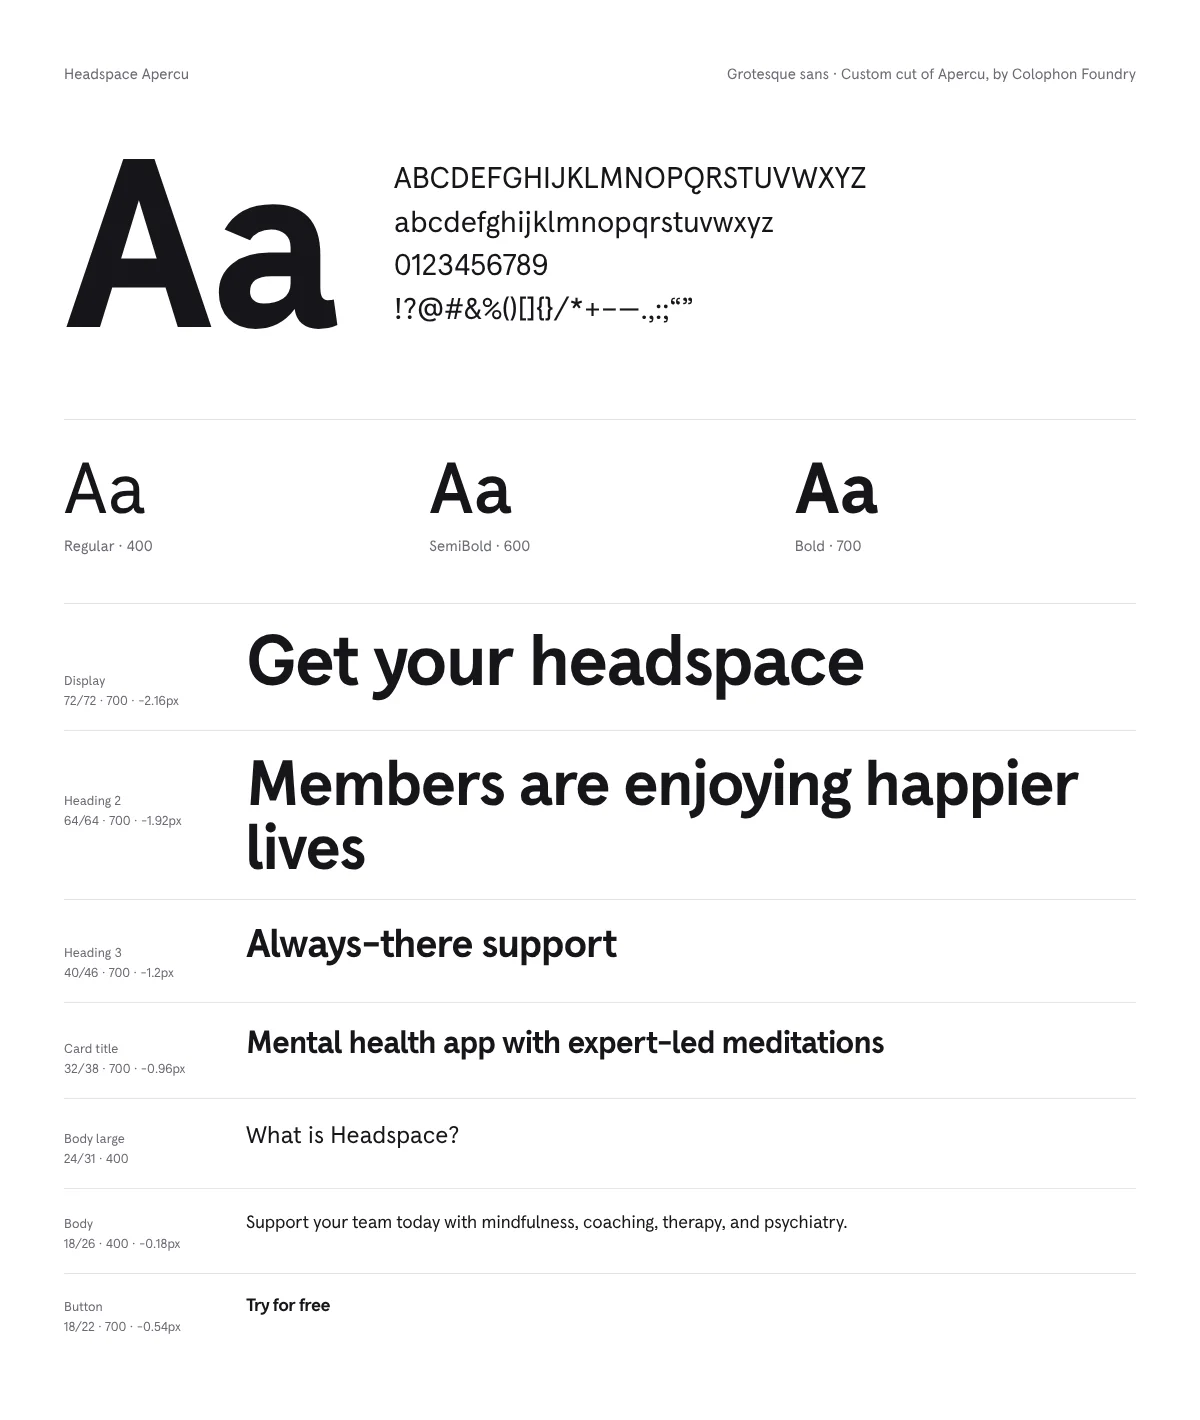
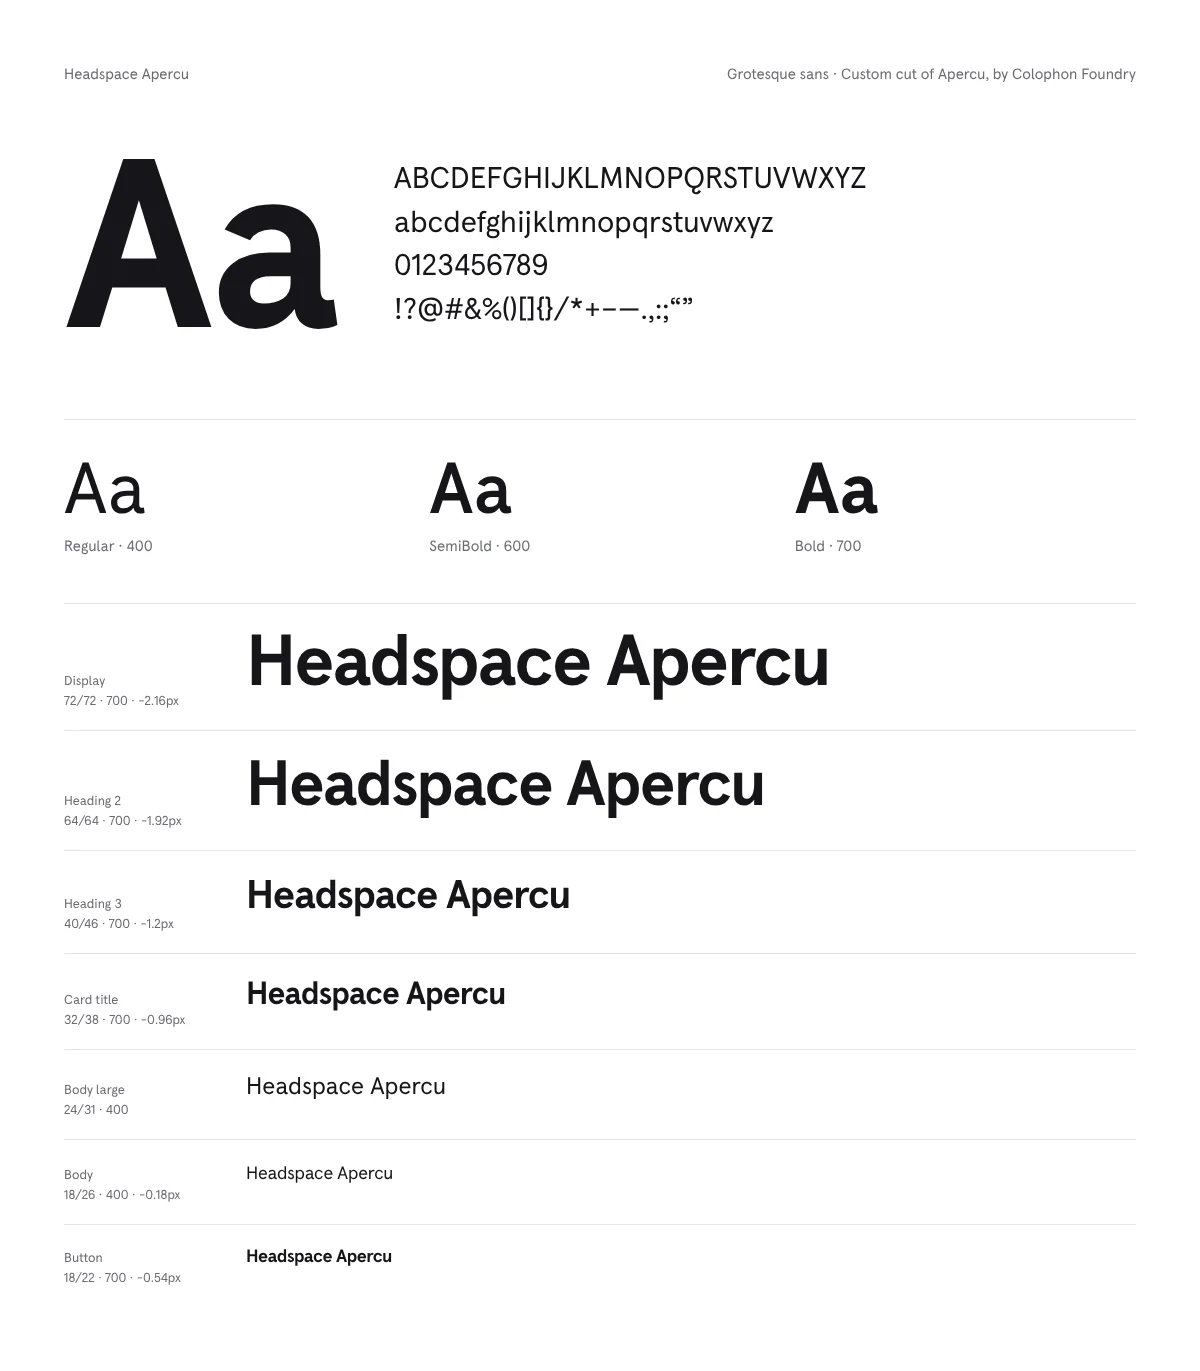
Type specimens show the font name instead of page copy
- Type scale rows render the font's own name in each style; the
  copied sample text is removed from the entries and the schema
- New optional uppercase flag for styles the page sets in capitals
- Specimens regenerated

Claude-Session: https://claude.ai/code/session_012tVV1Sr8Cq7sUQrny43SWW

diff --git a/src/content.config.ts b/src/content.config.ts
@@ -143,7 +143,7 @@ const entries = defineCollection({
                   weights: z
                     .array(z.object({ value: z.number(), name: z.string() }))
                     .min(1),
-                  /** How the page uses the font, largest first. Sizes in px. */
+                  /** How the page uses the font, largest first. Sizes in px. The specimen shows the font's name in each style. */
                   scale: z
                     .array(
                       z.object({
@@ -152,7 +152,8 @@ const entries = defineCollection({
                         lineHeight: z.number(),
                         weight: z.number(),
                         tracking: z.number().optional(),
-                        sample: z.string(),
+                        /** Set when the page sets this style in capitals. */
+                        uppercase: z.boolean().default(false),
                       }),
                     )
                     .default([]),

diff --git a/src/content/entries/jira-landing.md b/src/content/entries/jira-landing.md
@@ -67,24 +67,20 @@ typography:
           lineHeight: 67
           weight: 500
           tracking: -1.28
-          sample: Turn ideas into forward motion
         - label: Heading 2
           size: 48
           lineHeight: 56
           weight: 500
           tracking: -0.96
-          sample: Keep your entire team in the know
         - label: Heading 3
           size: 32
           lineHeight: 40
           weight: 500
-          sample: More than project management
         - label: Quote
           size: 24
           lineHeight: 33
           weight: 400
           tracking: -0.24
-          sample: Agents in Jira raise the floor for what every team can do.
     - family: Charlie Text
       style: geometric-sans
       roles: [body, ui]
@@ -100,24 +96,21 @@ typography:
           lineHeight: 31
           weight: 400
           tracking: -0.2
-          sample: Jira gives teams and agents the context, coordination, and control to move from intent to impact.
         - label: Body
           size: 16
           lineHeight: 25
           weight: 400
           tracking: -0.16
-          sample: Capture conversations from Slack and Microsoft Teams and turn them into actionable tasks.
         - label: Eyebrow
           size: 16
           lineHeight: 19
           weight: 500
           tracking: 1.28
-          sample: WORKS WITH
+          uppercase: true
         - label: Button
           size: 16
           lineHeight: 24
           weight: 500
-          sample: Get it free
     - family: Atlassian Mono
       style: monospace
       roles: [code]
@@ -130,7 +123,6 @@ typography:
           size: 48
           lineHeight: 56
           weight: 500
-          sample: "> in your IDE"
   what: >-
     Atlassian's custom brand typeface in two optical cuts: Charlie Display at
     large sizes (medium weight, tight letter-spacing) for headlines, Charlie

diff --git a/src/content/entries/headspace-landing.md b/src/content/entries/headspace-landing.md
@@ -66,42 +66,35 @@ typography:
           lineHeight: 72
           weight: 700
           tracking: -2.16
-          sample: Get your headspace
         - label: Heading 2
           size: 64
           lineHeight: 64
           weight: 700
           tracking: -1.92
-          sample: Members are enjoying happier lives
         - label: Heading 3
           size: 40
           lineHeight: 46
           weight: 700
           tracking: -1.2
-          sample: Always-there support
         - label: Card title
           size: 32
           lineHeight: 38
           weight: 700
           tracking: -0.96
-          sample: Mental health app with expert-led meditations
         - label: Body large
           size: 24
           lineHeight: 31
           weight: 400
-          sample: What is Headspace?
         - label: Body
           size: 18
           lineHeight: 26
           weight: 400
           tracking: -0.18
-          sample: Support your team today with mindfulness, coaching, therapy, and psychiatry.
         - label: Button
           size: 18
           lineHeight: 22
           weight: 700
           tracking: -0.54
-          sample: Try for free
   what: >-
     One typeface throughout: a custom version of Apercu with round, friendly
     details. Headlines are bold, large (40 to 72px) and tightly tracked; body
